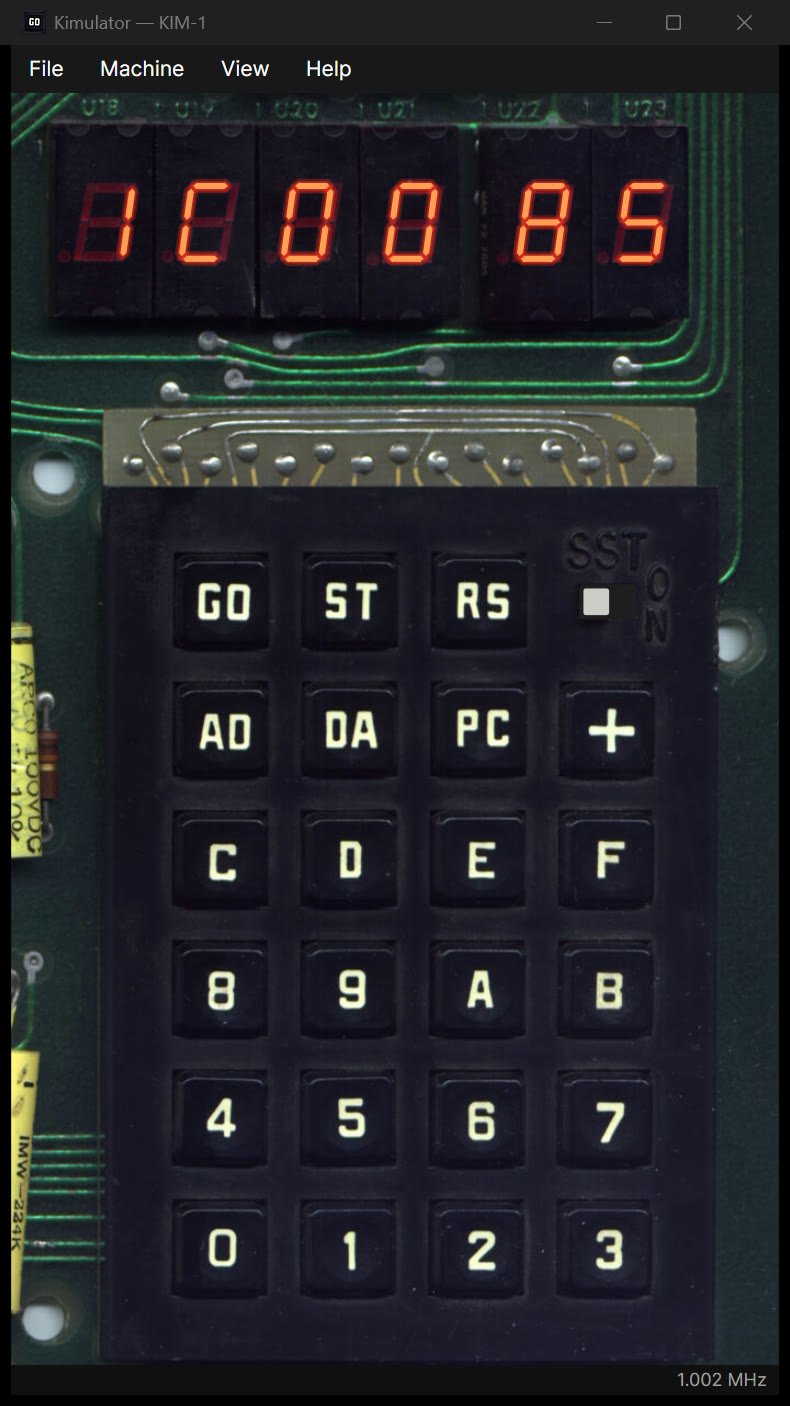
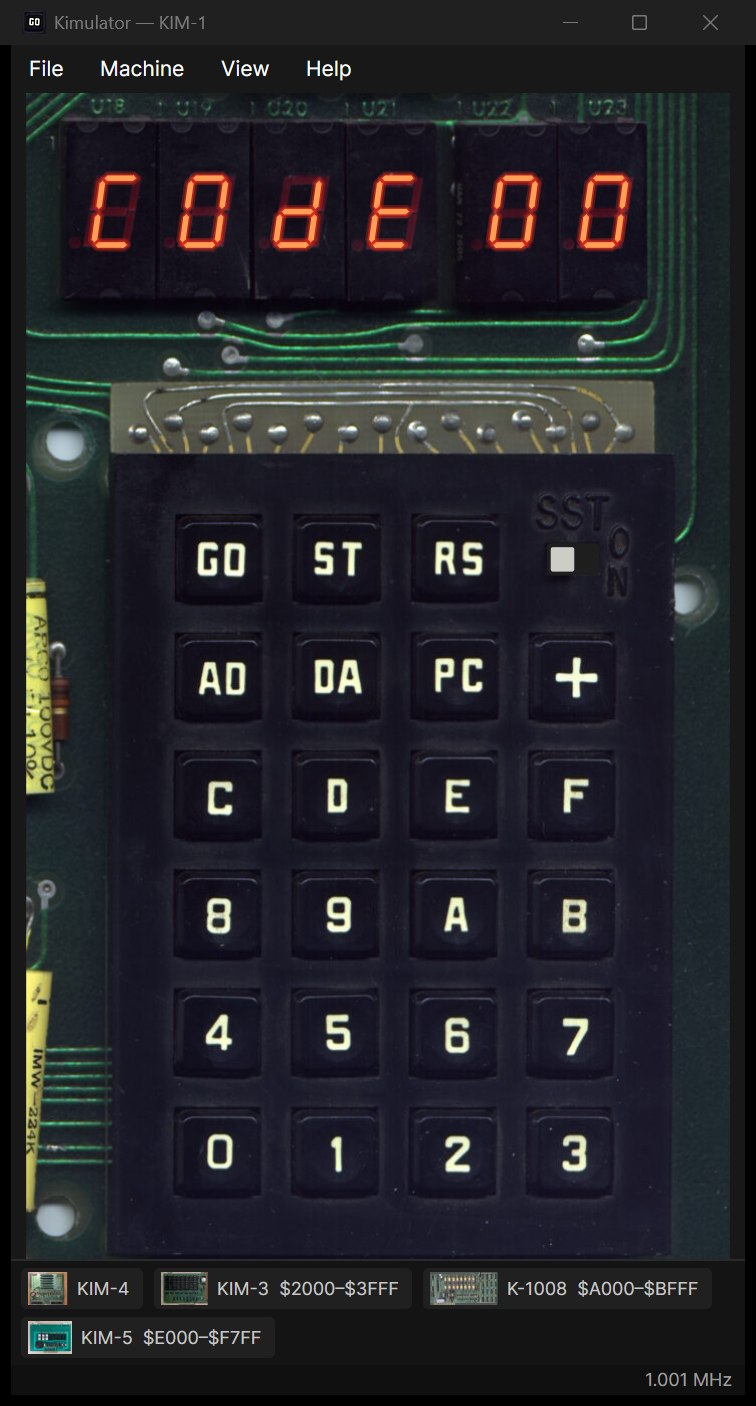
Show the installed-cards strip in the README screenshots
Retake the full-board and compact screenshots with a KIM-4, KIM-3,
K-1008 and KIM-5 installed, and add a close-up of the strip to the
expansion cards section.

diff --git a/README.md b/README.md
@@ -4,9 +4,9 @@ A cross-platform (Windows, macOS, Linux) KIM-1 emulator in .NET 10 and Avalonia.
 of a real KIM-1, and the keys, the SST switch and the LED display on the photo all work.
 
 <p align="center">
-  <img src="docs/screenshots/main.jpg" alt="The KIM-1 board running a program that shows C0DE on its LED display" width="440">
+  <img src="docs/screenshots/main.jpg" alt="The KIM-1 board running a program that shows C0DE on its LED display, with the installed cards listed underneath" width="440">
   &nbsp;
-  <img src="docs/screenshots/compact.jpg" alt="Compact view: only the display and keypad" width="252">
+  <img src="docs/screenshots/compact.jpg" alt="Compact view: only the display and keypad, with the installed cards listed underneath" width="328">
 </p>
 
 - **Cycle-accurate NMOS 6502**, including the undocumented opcodes and NMOS decimal-mode behavior. It passes
@@ -165,8 +165,11 @@ address the way you would on the real card: click its DIP switches.
 Without a KIM-4, one card can be cabled straight to the KIM-1. A memory map shows what answers where,
 and the window warns about the placements the MOS and MTU manuals caution against.
 
-A strip under the board lists the installed cards and their addresses, in both the full and compact view. Click a
-card to open its settings (the K-1008 opens its display). **View › Show installed cards** hides the strip.
+A strip under the board lists the installed cards and their addresses, in both the full and compact view (the
+screenshots at the top show both). Click a card to open its settings; the K-1008 opens its display instead. A
+misconfigured card adds a ⚠ entry that explains the problem. **View › Show installed cards** hides the strip.
+
+<p align="center"><img src="docs/screenshots/card-strip.png" alt="The installed-cards strip: KIM-4, KIM-3 at $2000, K-1008 at $A000 and KIM-5 at $E000" width="700"></p>
 
 To try the Resident Assembler/Editor:
 1. Install a KIM-4 with a KIM-3 at `$2000` and a KIM-5.
